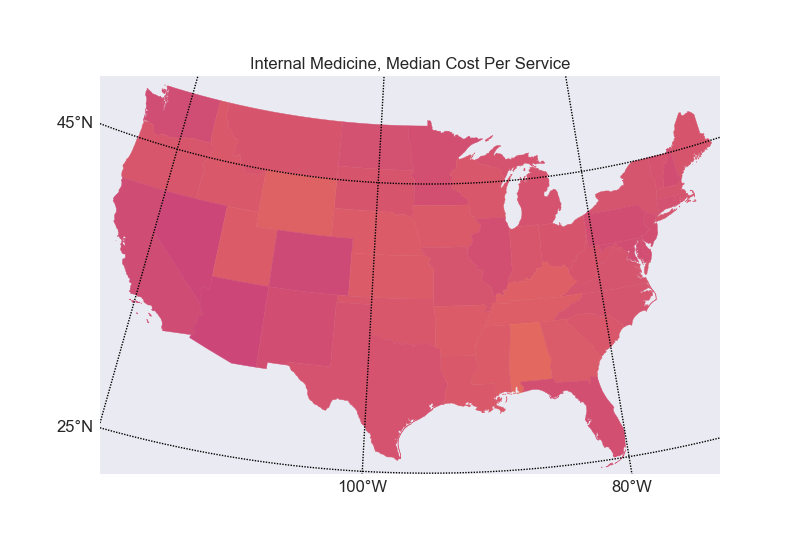
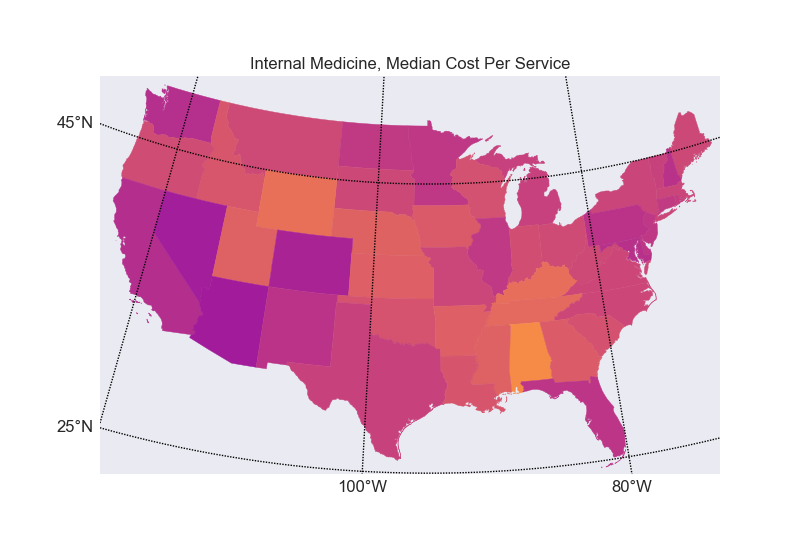
add median color to states

diff --git a/cms_explore.py b/cms_explore.py
@@ -239,21 +239,17 @@ def calc_by_states(df):
     bmap = get_basemap()  # read file once for all maps
 #   print(bmap.states_info[0].keys())
     im = p_group.ix['Internal Medicine']['pay_per_service']['median']
-    print('Internal Medicine\n', im)
-    mmin, mmax = 1.0, 2.7
-#   mmin, mmax = (0.9*im.min(), 1.1*im.max())  # should all be same scale
-    print('min %g, max %g; calc min %g, max %g' % (mmin, mmax, im.min(), im.max()))
-    make_state_map(bmap, im, mmin, mmax, plotdir, 'cost_per_service_internal_medicine', 'Internal Medicine, Median Cost Per Service')
+#   print('Internal Medicine\n', im)
+#   minmax = (1.0, 2.7)
+    make_state_map(bmap, im, plotdir, 'cost_per_service_internal_medicine', 'Internal Medicine, Median Cost Per Service')
 
     im = p_group.ix['General Surgery']['pay_per_service']['median']
-    print('General Surgery\n', im)
-    print('min %g, max %g; calc min %g, max %g' % (mmin, mmax, im.min(), im.max()))
-    make_state_map(bmap, im, mmin, mmax, plotdir, 'cost_per_service_general_surgery', 'General Surgery, Median Cost Per Service')
+#   print('General Surgery\n', im)
+    make_state_map(bmap, im, plotdir, 'cost_per_service_general_surgery', 'General Surgery, Median Cost Per Service')
 
     im = p_group.ix['Physical Therapist']['pay_per_service']['median']
-    print('Physical Therapist\n', im)
-    print('min %g, max %g; calc min %g, max %g' % (mmin, mmax, im.min(), im.max()))
-    make_state_map(bmap, im, mmin, mmax, plotdir, 'cost_per_service_physical_therapist', 'Physical Therapist, Median Cost Per Service')
+#   print('Physical Therapist\n', im)
+    make_state_map(bmap, im, plotdir, 'cost_per_service_physical_therapist', 'Physical Therapist, Median Cost Per Service')
 
 
 def main():

diff --git a/state_maps.py b/state_maps.py
@@ -74,12 +74,23 @@ def get_basemap():
 #   print(shp_info)
     return m
 
-def set_colors(df, states, mmin, mmax):
+def set_colors(df, states, minmax=None):
     "set colors for each state"
     cmap = plt.cm.plasma
 #   cmap = plt.cm.hot
 #   cmap = plt.cm.gist_heat
 # issue for rare providers: state may not be in df.ix
+    if minmax:
+        mmin = minmax[0]
+        mmax = minmax[1]
+    else:
+#       mmin, mmax = (df.min(), df.max())
+#       mmin, mmax = (0.9*df.min(), 1.1*df.max())
+        mmin, mmax = (0.95*df.min(), 1.05*df.max())
+        mmed = df.median()
+        mdiff = max(mmax-mmed, mmed-mmin)
+        mmin, mmax = mmed - mdiff, mmed + mdiff
+    print('min max med', mmin, mmax, mmed)
     for state,val in states.items():
         dval = df.ix[states[state]['abbr']]
         states[state]['color'] = rgb2hex(cmap(1.0 - pow((dval-mmin)/(mmax-mmin), 1.0))[:3])
@@ -103,11 +114,11 @@ def plot_map(m, states, plotdir, fname, label):
     plt.savefig(pname)
     print('saved plot %s' % pname)
 
-def make_state_map(m, df, mmin, mmax, plotdir, fname, label):
+def make_state_map(m, df, plotdir, fname, label, minmax=None):
     "make state map from data frame"
     print('make state map: %s' % label)
     states = get_full_states()
-    states = set_colors(df, states, mmin, mmax)
+    states = set_colors(df, states, minmax)
 #   print('states', states)
     plot_map(m, states, plotdir, fname, label)
 
